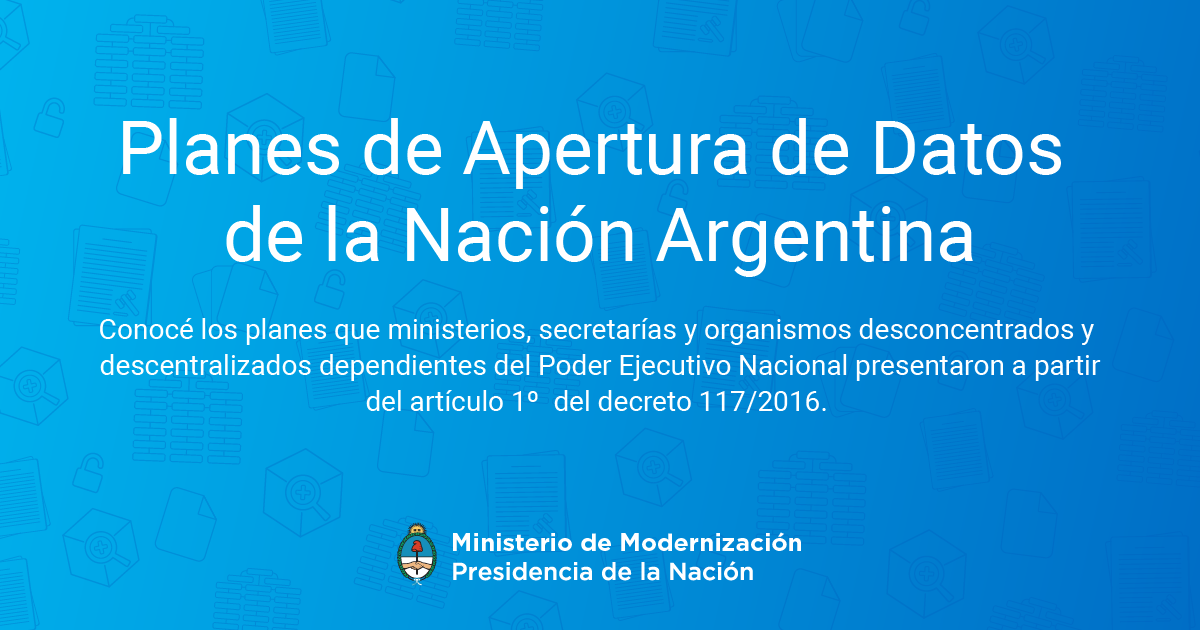
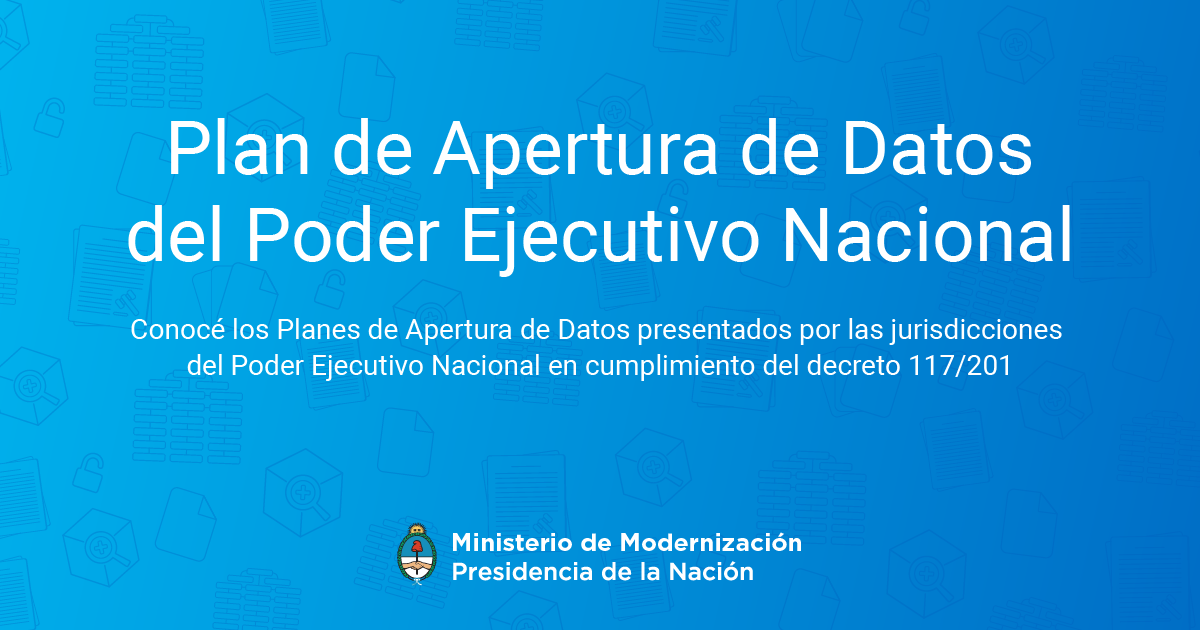
Actualizo metatags para landing de pad

Changed region(s): [[0.0617, 0.5127, 0.925, 0.6635], [0.0925, 0.181, 0.8942, 0.3016], [0.0925, 0.3317, 0.8942, 0.4524]]

diff --git a/pad/datasets.html b/pad/datasets.html
@@ -16,9 +16,9 @@
 
     <meta property="og:url" content="https://datosgobar.github.io/pad/datasets.html">
     <meta property="og:type" content="article">
-    <meta property="og:title" content="Planes de Apertura de Datos de la Nación Argentina">
-    <meta property="og:site_name" content="Planes de Apertura de Datos de la Nación Argentina">
-    <meta property="og:description" content="Conocé los planes que ministerios, secretarías y organismos desconcentrados y descentralizados dependientes del Poder Ejecutivo Nacional presentaron a partir del artículo 1º del decreto 117/2016.">
+    <meta property="og:title" content="Plan de Apertura de Datos de la Nación Argentina">
+    <meta property="og:site_name" content="Plan de Apertura de Datos de la Nación Argentina">
+    <meta property="og:description" content="Conocé los Planes de Apertura de Datos presentados por las jurisdicciones del Poder Ejecutivo Nacional en cumplimiento del decreto 117/2016.">
     <meta property="og:image" content="https://datosgobar.github.io/img/pad/PAD-metatag-fb.png">
     <meta property="og:image:type" content="image/png">
     <meta property="og:image:width" content="2400">
@@ -27,8 +27,8 @@
 
     <meta name="twitter:card" content="summary">
     <meta name="twitter:site" content="@datosgobar"/>
-    <meta name="twitter:title" content="Planes de Apertura de Datos de la Nación Argentina">
-    <meta name="twitter:description" content="Conocé los planes que ministerios, secretarías y organismos desconcentrados y descentralizados dependientes del Poder Ejecutivo Nacional presentaron a partir del artículo 1º del decreto 117/2016.">
+    <meta name="twitter:title" content="Plan de Apertura de Datos de la Nación Argentina">
+    <meta name="twitter:description" content="Conocé los Planes de Apertura de Datos presentados por las jurisdicciones del Poder Ejecutivo Nacional en cumplimiento del decreto 117/2016">
     <meta name="twitter:image:src" content="https://datosgobar.github.io/img/pad/PAD-metatag-tw.png">
 
     <link rel="shortcut icon" href="/img/favicon.ico" type="image/vnd.microsoft.icon">

diff --git a/pad/index.html b/pad/index.html
@@ -16,9 +16,9 @@
 
     <meta property="og:url" content="https://datosgobar.github.io/pad">
     <meta property="og:type" content="article">
-    <meta property="og:title" content="Planes de Apertura de Datos de la Nación Argentina">
-    <meta property="og:site_name" content="Planes de Apertura de Datos de la Nación Argentina">
-    <meta property="og:description" content="Conocé los planes que ministerios, secretarías y organismos desconcentrados y descentralizados dependientes del Poder Ejecutivo Nacional presentaron a partir del artículo 1º del decreto 117/2016.">
+    <meta property="og:title" content="Plan de Apertura de Datos de la Nación Argentina">
+    <meta property="og:site_name" content="Plan de Apertura de Datos de la Nación Argentina">
+    <meta property="og:description" content="Conocé los Planes de Apertura de Datos presentados por las jurisdicciones del Poder Ejecutivo Nacional en cumplimiento del decreto 117/2016.">
     <meta property="og:image" content="https://datosgobar.github.io/img/pad/PAD-metatag-fb.png">
     <meta property="og:image:type" content="image/png">
     <meta property="og:image:width" content="2400">
@@ -27,8 +27,8 @@
 
     <meta name="twitter:card" content="summary">
     <meta name="twitter:site" content="@datosgobar"/>
-    <meta name="twitter:title" content="Planes de Apertura de Datos de la Nación Argentina">
-    <meta name="twitter:description" content="Conocé los planes que ministerios, secretarías y organismos desconcentrados y descentralizados dependientes del Poder Ejecutivo Nacional presentaron a partir del artículo 1º del decreto 117/2016.">
+    <meta name="twitter:title" content="Plan de Apertura de Datos de la Nación Argentina">
+    <meta name="twitter:description" content="Conocé los Planes de Apertura de Datos presentados por las jurisdicciones del Poder Ejecutivo Nacional en cumplimiento del decreto 117/2016.">
     <meta name="twitter:image:src" content="https://datosgobar.github.io/img/pad/PAD-metatag-tw.png">
 
     <link rel="shortcut icon" href="/img/favicon.ico" type="image/vnd.microsoft.icon">
